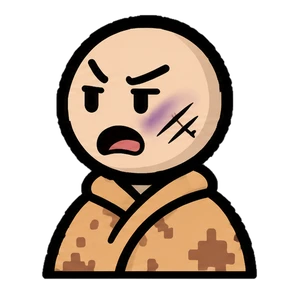
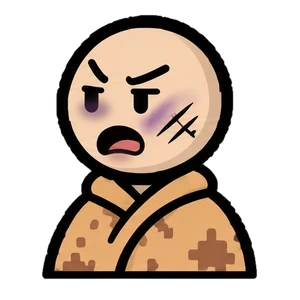
Show Milo’s injuries in the club and redraw the camera

Changed region(s): [[0.24, 0.33, 0.39, 0.42], [0.36, 0.48, 0.45, 0.54]]

diff --git a/style.css b/style.css
@@ -288,9 +288,11 @@ canvas {
   transform: translate(-50%, -50%);
   pointer-events: none;
   background:
-    radial-gradient(ellipse 4.5% 3.2% at 39% 48%, #754b78a8, transparent 95%),
-    radial-gradient(ellipse 3.5% 2.9% at 58% 46%, #98566699, transparent 95%),
-    radial-gradient(ellipse 2.2% 1.4% at 43% 55%, #a8645c80, transparent 95%);
+    radial-gradient(ellipse 1.8% 0.7% at 44% 49%, #873e45de 30%, transparent 100%),
+    radial-gradient(ellipse 3.5% 2.1% at 43% 50%, #b758596e 35%, transparent 100%),
+    radial-gradient(ellipse 6.2% 4.7% at 34% 37%, #64416dcc 36%, #815279a8 67%, transparent 100%),
+    radial-gradient(ellipse 5.1% 3.6% at 55% 42%, #844661bd 32%, #b06a7270 72%, transparent 100%),
+    radial-gradient(ellipse 2.1% 1.4% at 51% 24%, #a75e6194 38%, transparent 100%);
 }
 
 /* The separate reaction portraits use more transparent padding than the atlas. */
